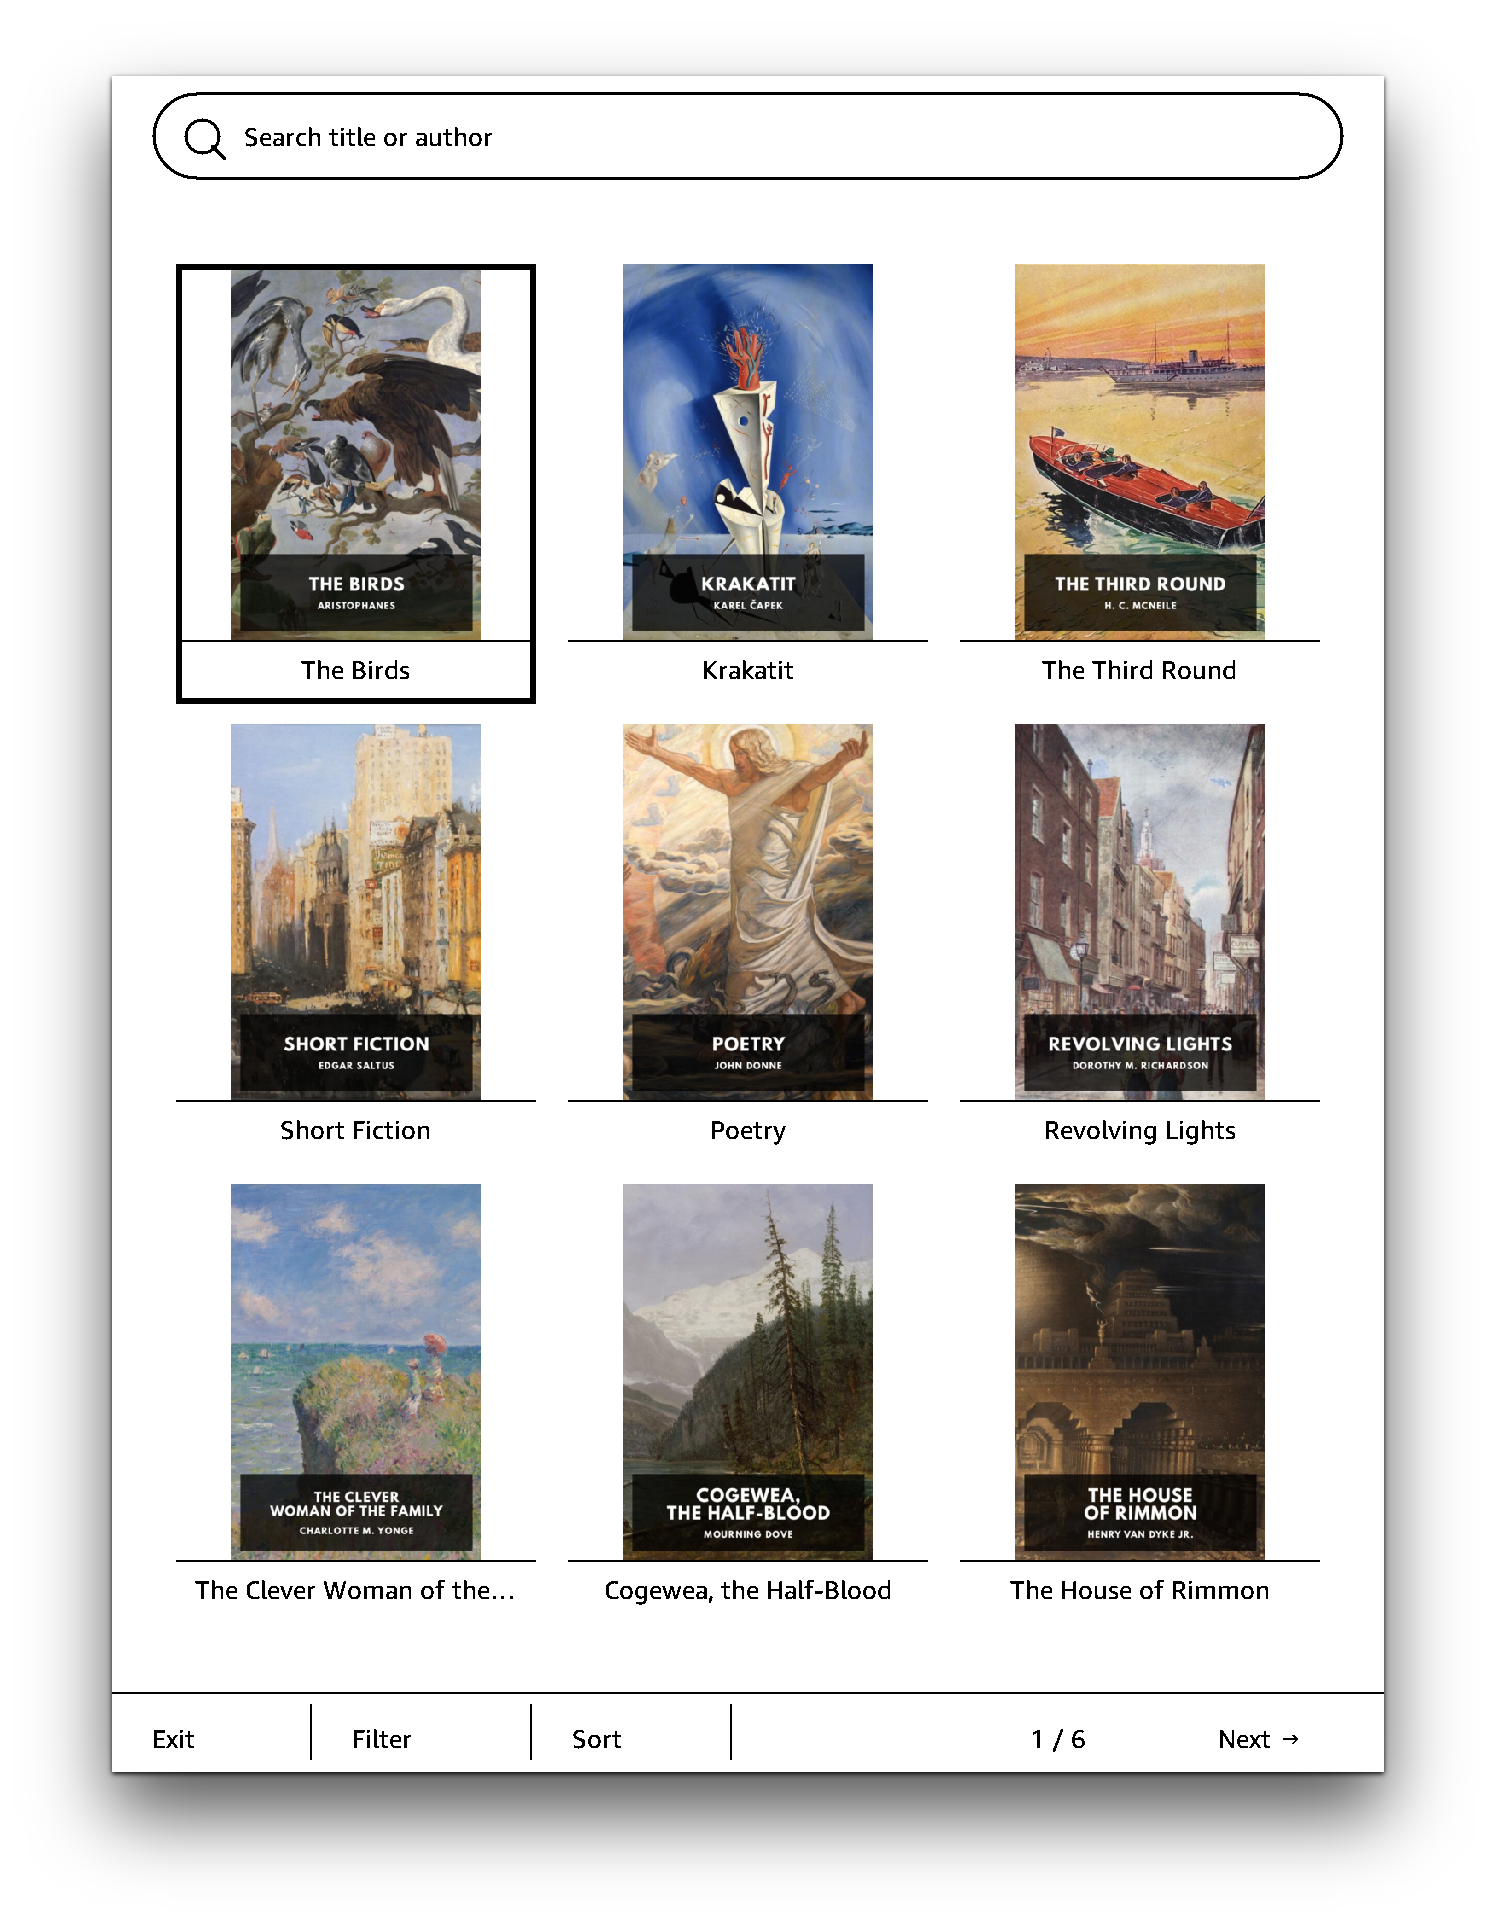
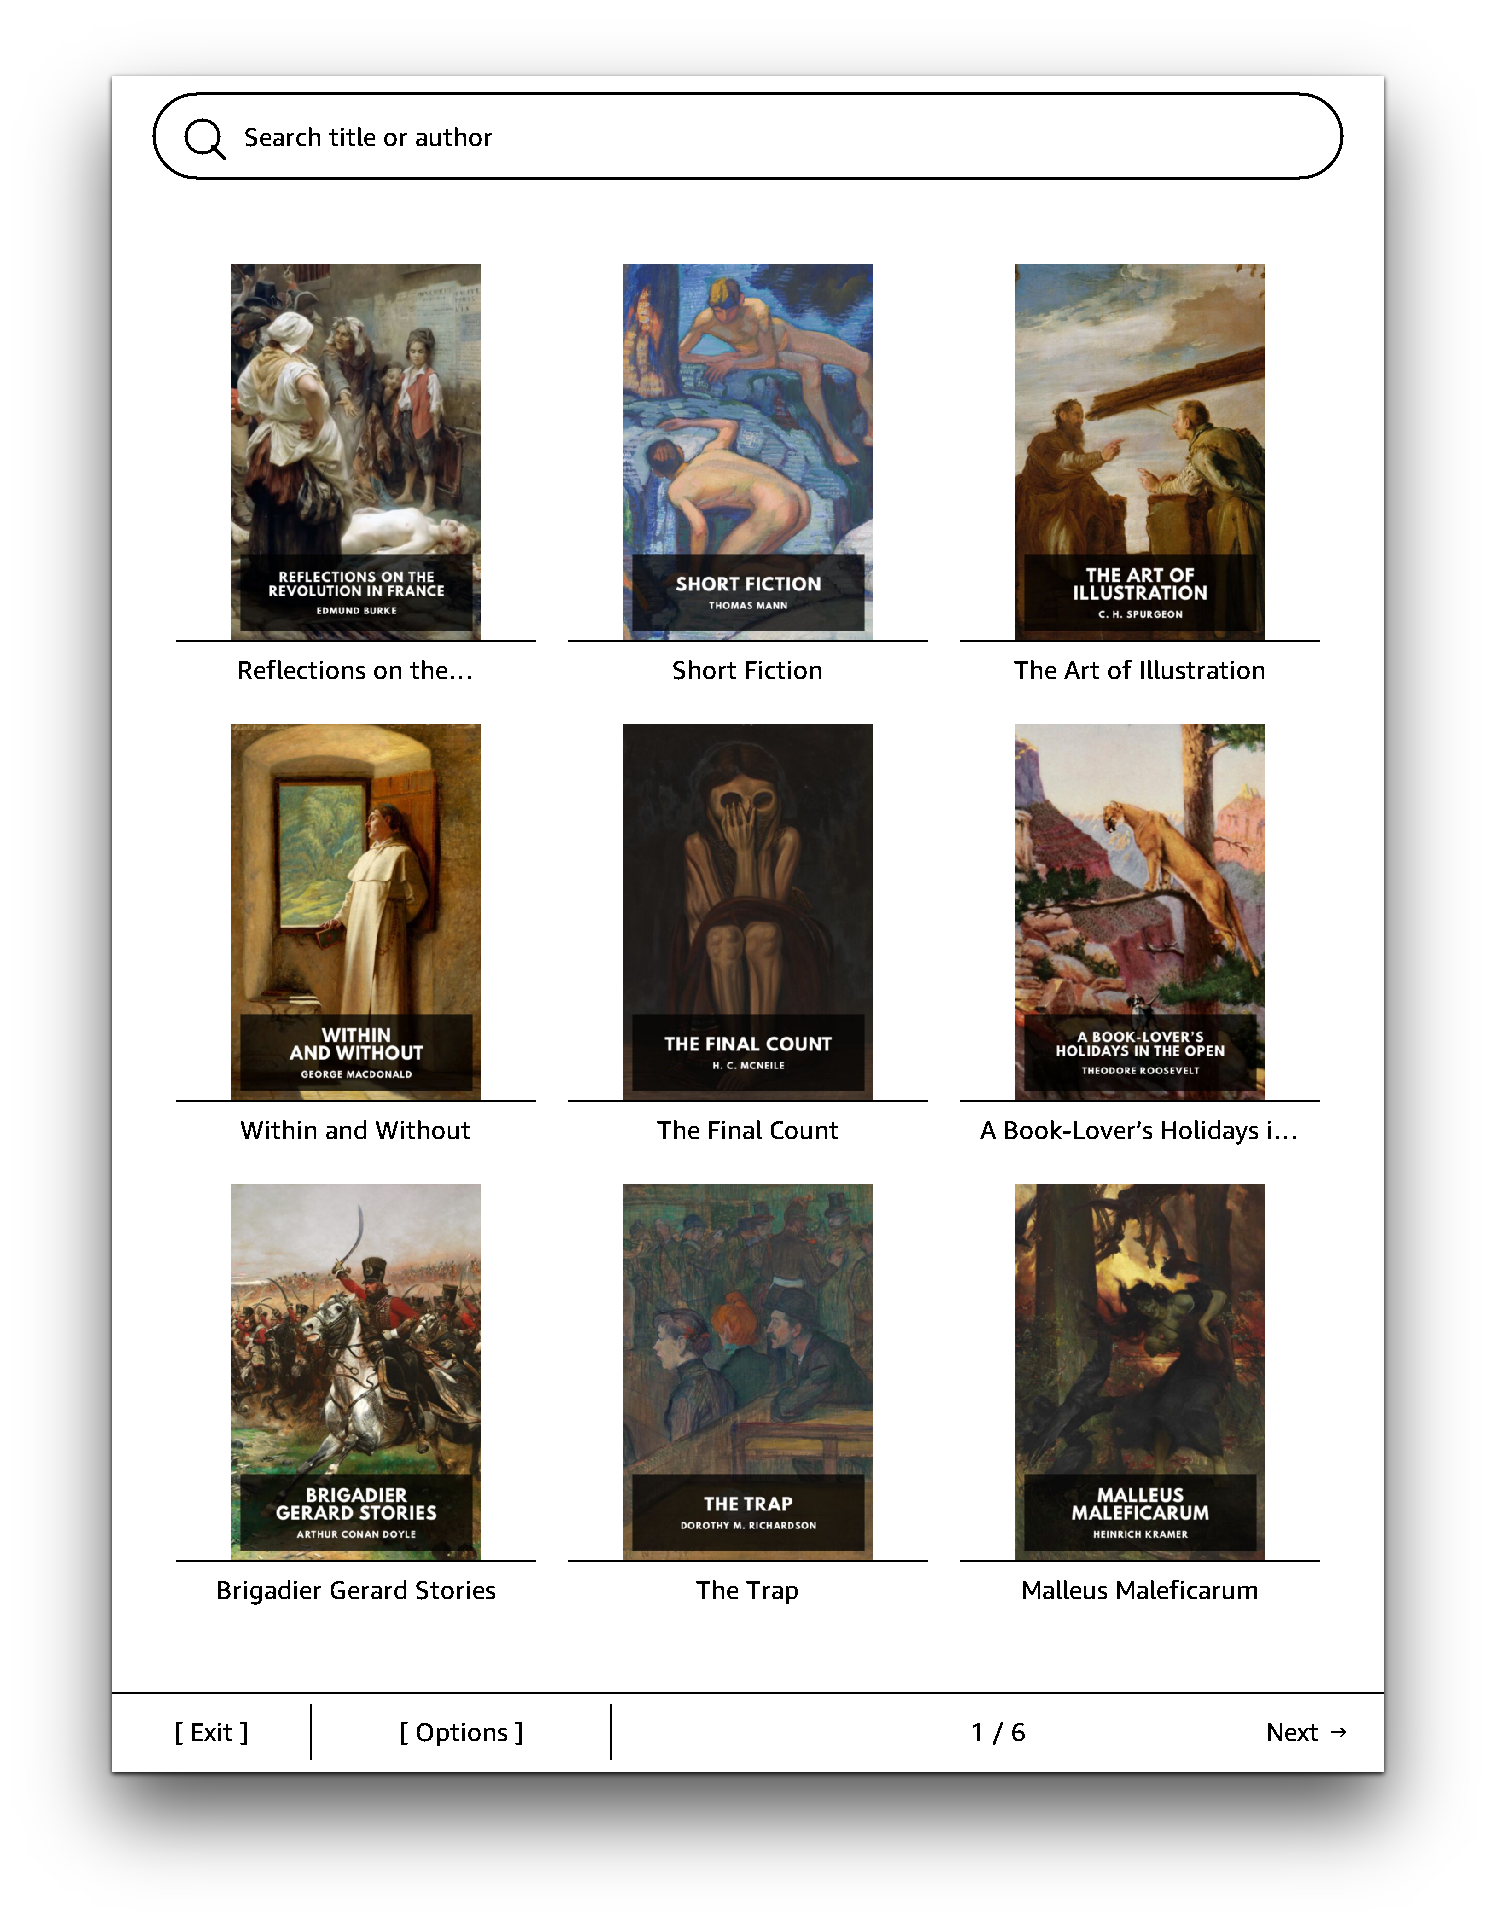
update: README

diff --git a/README.md b/README.md
@@ -30,5 +30,5 @@ A local `./build.sh` stages the same two under `device/`.
 
 <p align="center">
     <img src=".github/assets/steb-home.png" height="500" />
-    <img src=".github/assets/steb-search.png" height="500" />
+    <img src=".github/assets/steb-options.png" height="500" />
 </p>
